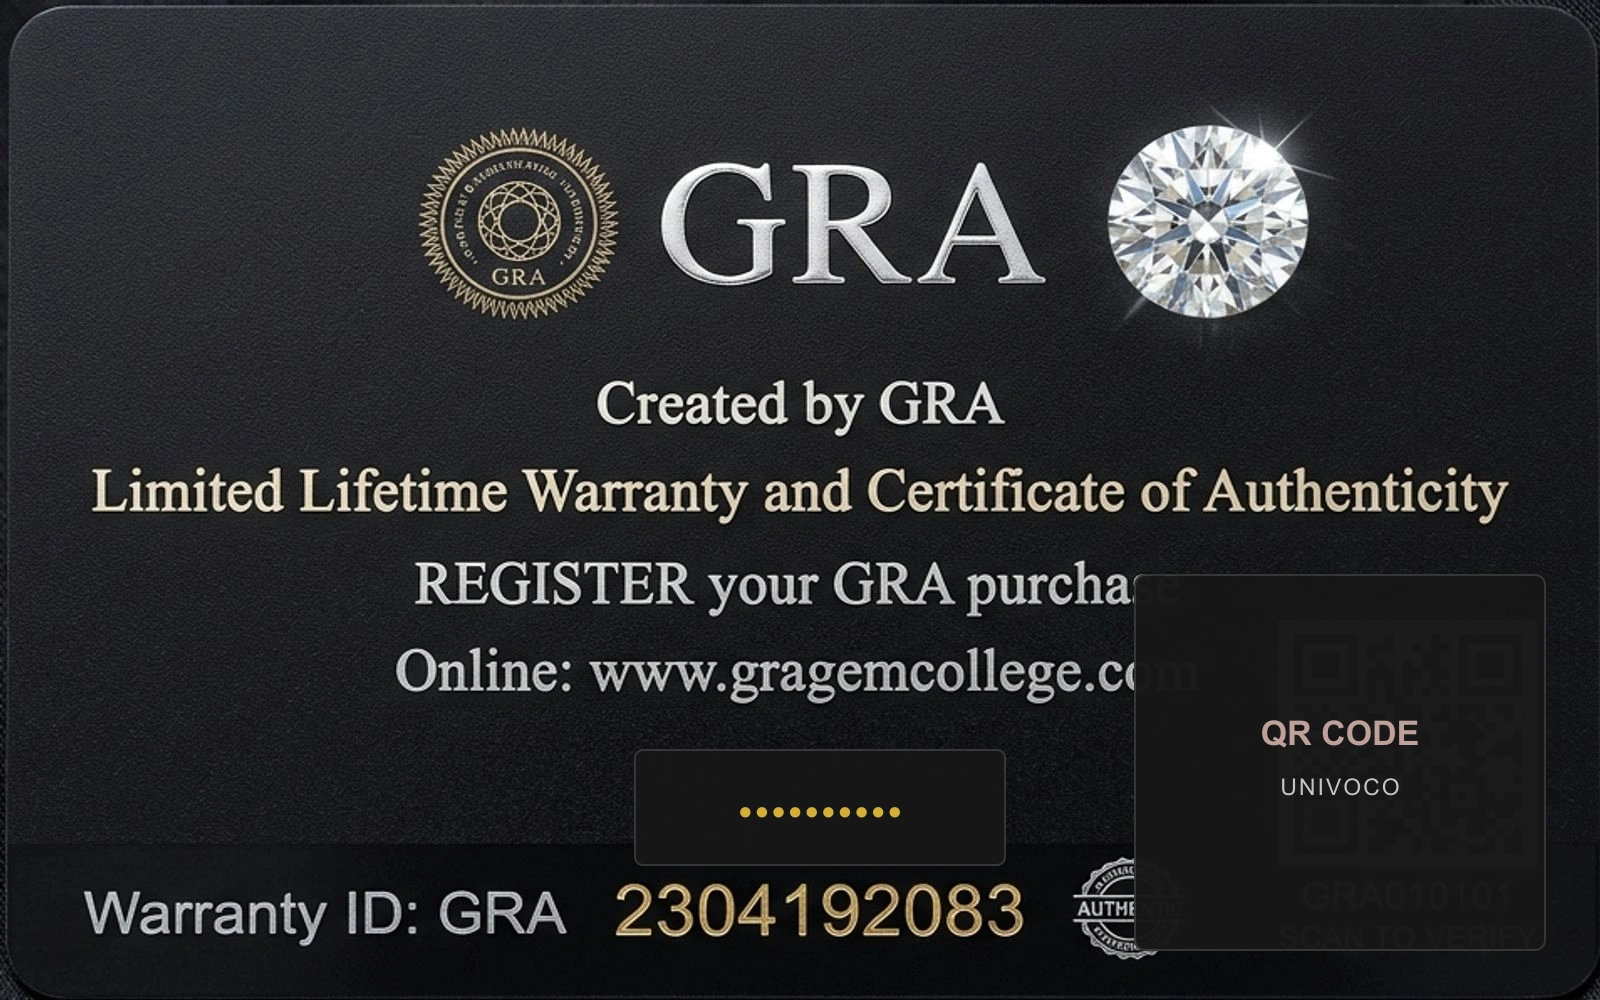
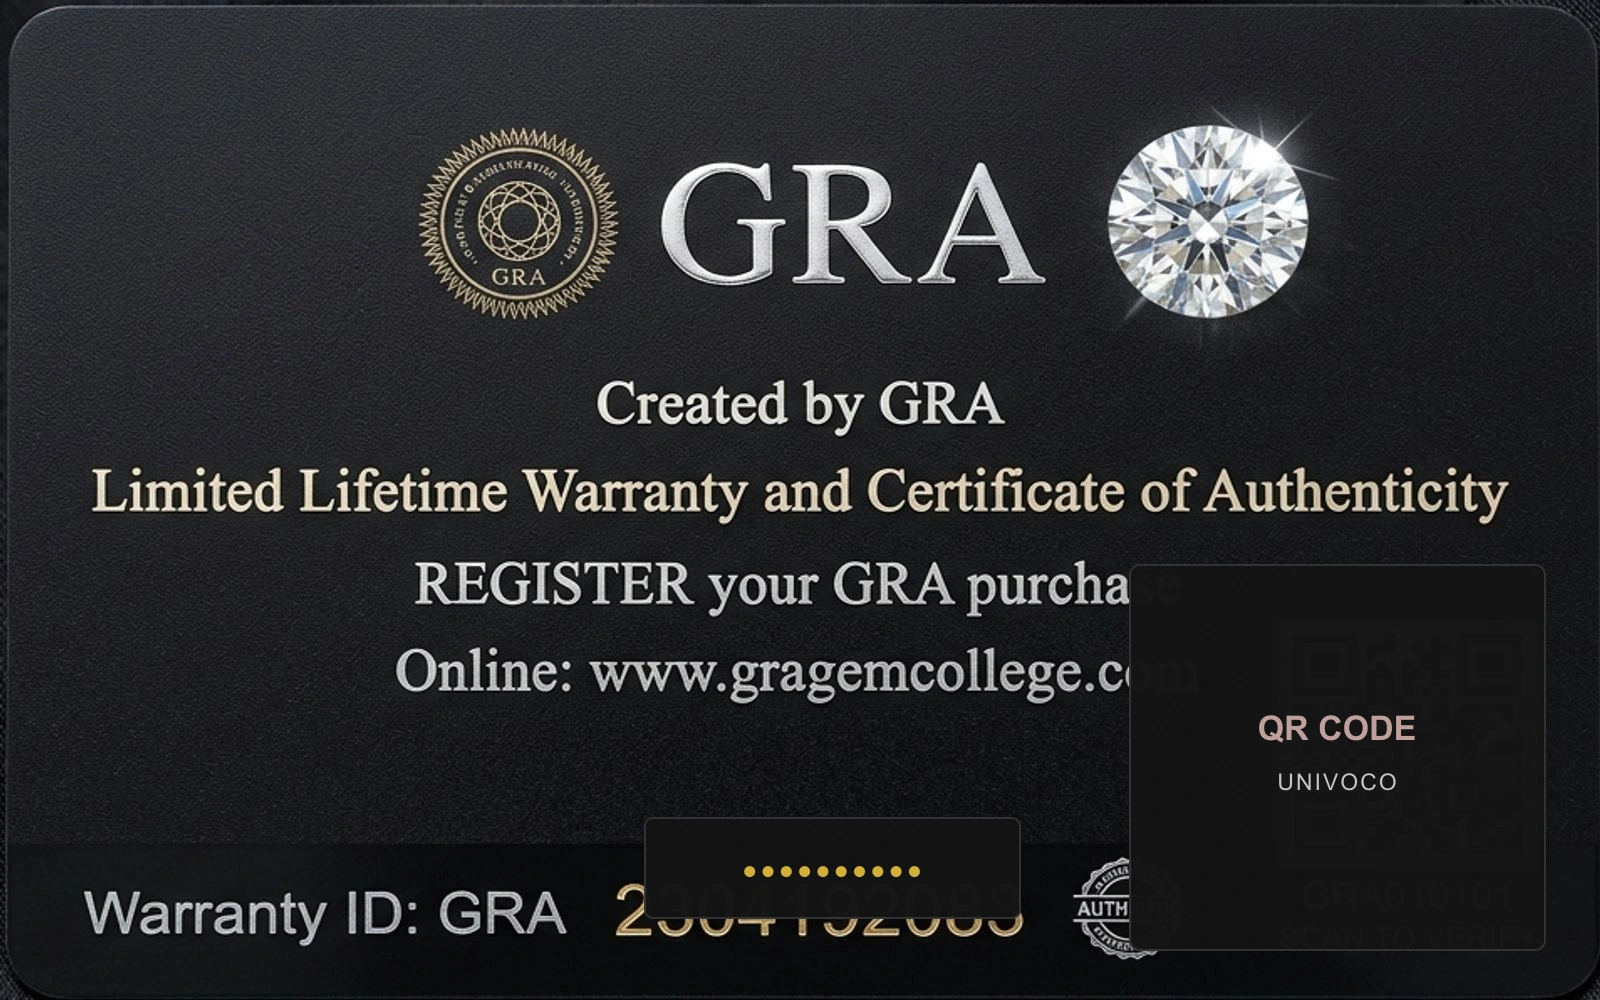
fix(brand): place frosted privacy mask directly over the serial number on GRA card

diff --git a/scripts/export_ultra_sharp_gra_card.ts b/scripts/export_ultra_sharp_gra_card.ts
@@ -24,17 +24,18 @@ async function exportUltraCleanGraCard() {
   const w = 1600;
   const h = 1000;
 
-  // Precise SVG overlay covering EXACTLY the QR code (and text under it) and the exact serial number (2304192083)
+  // 1. QR Code is at x: 1130..1550, y: 560..945
+  // 2. The number 2304192083 is at x: 650..1015, y: 820..915
   const cardOverlaySvg = `
   <svg width="${w}" height="${h}" xmlns="http://www.w3.org/2000/svg">
     <!-- Frosted Privacy Mask over ENTIRE QR Code + Subtext (Right column) -->
-    <rect x="1135" y="575" width="410" height="375" fill="#181818" opacity="0.97" rx="10" stroke="#383838" stroke-width="2" />
-    <text x="1340" y="745" font-family="'Helvetica Neue', Arial, sans-serif" font-size="34" fill="#C0A09A" font-weight="bold" text-anchor="middle">QR CODE</text>
-    <text x="1340" y="795" font-family="'Helvetica Neue', Arial, sans-serif" font-size="23" letter-spacing="2" fill="#E5E5E5" opacity="0.85" text-anchor="middle">UNIVOCO</text>
+    <rect x="1130" y="565" width="415" height="385" fill="#141414" opacity="0.98" rx="10" stroke="#333333" stroke-width="2" />
+    <text x="1337" y="740" font-family="'Helvetica Neue', Arial, sans-serif" font-size="34" fill="#C0A09A" font-weight="bold" text-anchor="middle">QR CODE</text>
+    <text x="1337" y="790" font-family="'Helvetica Neue', Arial, sans-serif" font-size="23" letter-spacing="2" fill="#E5E5E5" opacity="0.85" text-anchor="middle">UNIVOCO</text>
 
-    <!-- Frosted Privacy Mask over EXACT Serial Number: 2304192083 (Bottom-Center) -->
-    <rect x="635" y="750" width="370" height="115" fill="#181818" opacity="0.97" rx="8" stroke="#383838" stroke-width="2" />
-    <text x="820" y="825" font-family="Arial, sans-serif" font-size="36" letter-spacing="4" fill="#D4AF37" font-weight="bold" text-anchor="middle">••••••••••</text>
+    <!-- Frosted Privacy Mask DIRECTLY OVER the Serial Number: 2304192083 -->
+    <rect x="645" y="818" width="375" height="100" fill="#141414" opacity="0.98" rx="8" stroke="#333333" stroke-width="2" />
+    <text x="832" y="885" font-family="Arial, sans-serif" font-size="38" letter-spacing="5" fill="#D4AF37" font-weight="bold" text-anchor="middle">••••••••••</text>
   </svg>
   `;
 
@@ -48,7 +49,7 @@ async function exportUltraCleanGraCard() {
     .jpeg({ quality: 95 })
     .toFile(path.resolve(process.cwd(), 'public/Brand/gra_card_privacy.jpg'));
 
-  console.log('✅ Perfectly aligned frosted privacy masks exported successfully!');
+  console.log('✅ Serial number mask placed DIRECTLY over the number 2304192083!');
 }
 
 exportUltraCleanGraCard().catch(console.error);
